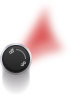
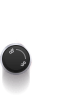
canvas_done
buttons available, everything works

Changed region(s): [[0.2817, 0.0842, 0.9014, 0.6737]]

diff --git a/app/directives/turntableLayers/red_btn.js b/app/directives/turntableLayers/red_btn.js
@@ -1,9 +1,8 @@
 function addRedButton (stage, layer, params) {
 
-
     var group = new Konva.Group ({
 
-         x: 100,
+         x: -130,
          y: 100
 
 
@@ -15,38 +14,41 @@ function addRedButton (stage, layer, params) {
          y: 100,
          image: params.red_Button_Off,
 
-         width: 10,
-         height: 10
+         width: 71,
+         height: this.width + 4,
+
+
 
     });
 
     var red_btn_on = new Konva.Image ({
 
-     x: 0,
-     y: 0,
+     x: 100,
+     y: 100,
      image: params.red_Button_On,
-     width:10,
-     height:10,
-     visible: false,
+     width: 71,
+     height: this.width + 4,
+     visible: false
 
     });
 
+
     group.add(red_btn_off);
     group.add(red_btn_on);
-red_btn_off.hide();
+    red_btn_on.hide();
 
 red_btn_off.on('mousedown', function (){
 
-       red_btn_on.hide();
-       red_btn_off.show();
+       red_btn_on.show();
+       red_btn_off.hide();
        layer.draw();
 
 });
 
 red_btn_on.on('mousedown', function(){
 
-       red_btn_on.show();
-       red_btn_off.hide();
+       red_btn_on.hide();
+       red_btn_off.show();
        layer.draw();
 
 
@@ -54,8 +56,6 @@ red_btn_on.on('mousedown', function(){
 
 
 
-group.add(red_btn_off);
-group.add(red_btn_on);
 stage.add(group);
 
 }

diff --git a/app/directives/turntableLayers/blue_btn.js b/app/directives/turntableLayers/blue_btn.js
@@ -3,8 +3,8 @@ function addBlueButton (stage, layer, params) {
 
     var group = new Konva.Group ({
 
-         x: 0,
-         y: 0
+         x: 250,
+         y: 315
 
 
     });
@@ -15,8 +15,10 @@ function addBlueButton (stage, layer, params) {
          y: 0,
 
          image: params.blue_Button_Off,
-         width: 10,
-         height: 10
+         width: 75,
+         height: this.width + 4,
+
+
 
     });
 
@@ -25,18 +27,22 @@ function addBlueButton (stage, layer, params) {
      x: 0,
      y: 0,
      image: params.blue_Button_On,
-     width: 10,
-     height: 10,
+     width: 75,
+     height: this.width + 4,
      visible: false
+
+
 
     });
 
-/*blue_btn_on.hide();*/
+    group.add(blue_btn_off);
+    group.add(blue_btn_on);
+    blue_btn_on.hide();
 
 blue_btn_off.on('mousedown', function(){
 
-blue_btn_off.show();
 blue_btn_off.hide();
+blue_btn_on.show();
 layer.draw();
 
 
@@ -45,15 +51,14 @@ layer.draw();
 
 blue_btn_on.on('mousedown', function(){
 
-blue_btn_on.show();
-blue_btn_off.hide();
+blue_btn_on.hide();
+blue_btn_off.show();
 layer.draw();
 
 })
 
 
-group.add(blue_btn_off);
-group.add(blue_btn_on);
+
 stage.add(group);
 
 }
